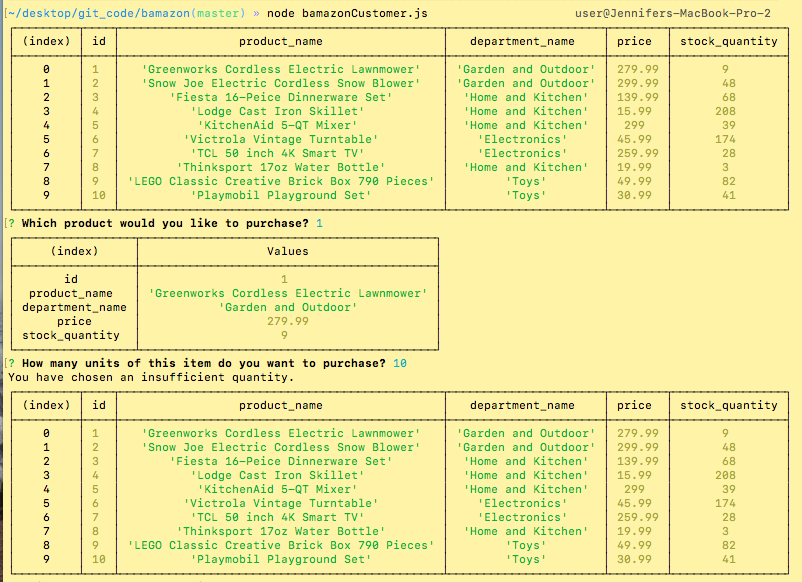
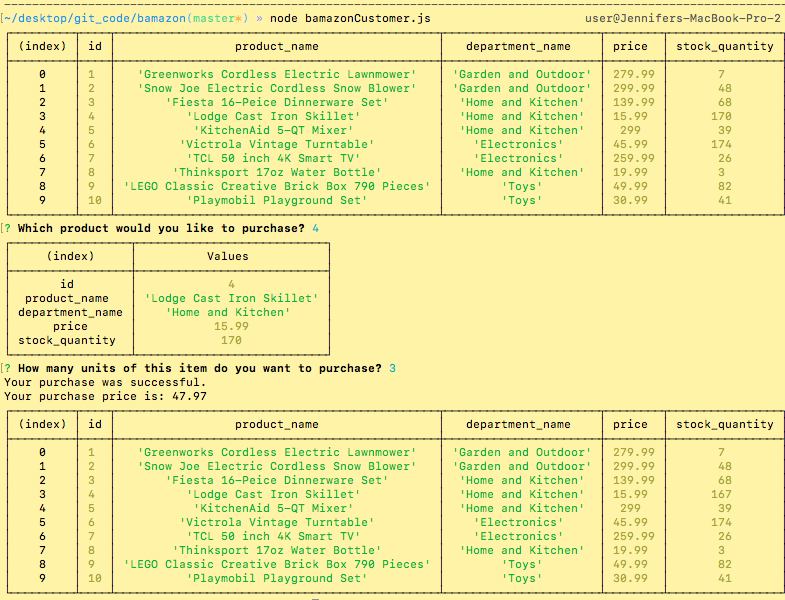
new gifs and photo

Changed region(s): [[0.0, 0.0, 1.0, 1.0]]

diff --git a/bamazonCustomer.js b/bamazonCustomer.js
@@ -32,74 +32,76 @@ function displayTable() {
 
 //Prompt user with message what ID of product they want.
 function selectProduct(results) {
-    inquirer
-      .prompt(
-        {
-          name: "userId",
-          type: "input",
-          message: "Which product would you like to purchase?",
-          validate: function(value) {
-            if (isNaN(value) === false) {
-              return true;
-            }
-            return false;
+  inquirer
+    .prompt(
+      {
+        name: "userId",
+        type: "input",
+        message: "Which product would you like to purchase?",
+        validate: function (value) {
+          if (isNaN(value) === false) {
+            return true;
           }
-        })
-        
-      .then(function (answer) {
-        var id = parseInt(answer.userId);
-        var product = checkInventory(id, results);
-        if (product){
-          console.table(product);
-          quantityPrompt(product);
-        } else {
-          console.log("The product you chose does not exist.")
-          displayTable();
+          return false;
         }
-      } 
-  )}
-
-  function checkInventory(id, results) {
-    for (var i = 0; i < results.length; i++) {
-      if (id === results[i].id) {
-        return results[i];
-      } 
+      })
+    .then(function (answer) {
+      var id = parseInt(answer.userId);
+      var product = checkInventory(id, results);
+      if (product) {
+        console.table(product);
+        quantityPrompt(product);
+      } else {
+        console.log("The product you chose does not exist.")
+        displayTable();
+      }
     }
-    return null;
+    )
+}
+
+function checkInventory(id, results) {
+  for (var i = 0; i < results.length; i++) {
+    if (id === results[i].id) {
+      return results[i];
+    }
   }
-       
+  return null;
+}
+
 //Promt user with question of how many units they want?
 function quantityPrompt(product) {
   inquirer
     .prompt({
-        type: "input",
-        name: "stock_quantity",
-        message: "How many units of this item do you want to purchase?"
-      })
+      type: "input",
+      name: "stock_quantity",
+      message: "How many units of this item do you want to purchase?"
+    })
     .then(function (answer) {
-      var quantity = parseInt (answer.stock_quantity);
-      if (quantity > product.stock_quantity){
+      var quantity = parseInt(answer.stock_quantity);
+      if (quantity > product.stock_quantity) {
         console.log("You have chosen an insufficient quantity.");
         displayTable();
-        // quantityPrompt();
       } else {
         finalizePurchase(product, quantity);
       }
     })
-  }
-  //Update database to deduct units they wish to purchase
-  function finalizePurchase(product, quantity) {
-    connection.query(
-      "UPDATE products SET stock_quantity = stock_quantity -? WHERE id = ?;",
-      [quantity, product.id],
-      function(err){
-        console.log("Your purchase was successful.")
-        displayTable();
-      }
-      )
-  
-    
-  }
+}
 
-  //Show customer total cost of purchase
-         
+//Update database to deduct units they wish to purchase
+function finalizePurchase(product, quantity) {
+  connection.query(
+    "UPDATE products SET stock_quantity = stock_quantity -? WHERE id = ?;",
+    [quantity, product.id],
+    function (err) {
+      console.log("Your purchase was successful.")
+      displayTable();
+      costPurchase(product, quantity);
+    }
+  )
+}
+
+//Show customer total cost of purchase
+function costPurchase(product, quantity) {
+  var price = product.price * quantity;
+  console.log("Your purchase price is: " + price);
+}  

diff --git a/README.md b/README.md
@@ -8,7 +8,9 @@ Bamazon storefront using MySQL and Node.js
 
 Bamazon storefront allows the user to select an item to purchase, select the quantity of that item, and then reduces the stock quantity value of that item by the number the customer input. 
 
-![](bamazon.gif)
+![Purchasing a product.](bamazon1.gif)
+
+![Purchasing error and product quantity error.](bamazon2.gif)
 
 ## Built With
 
